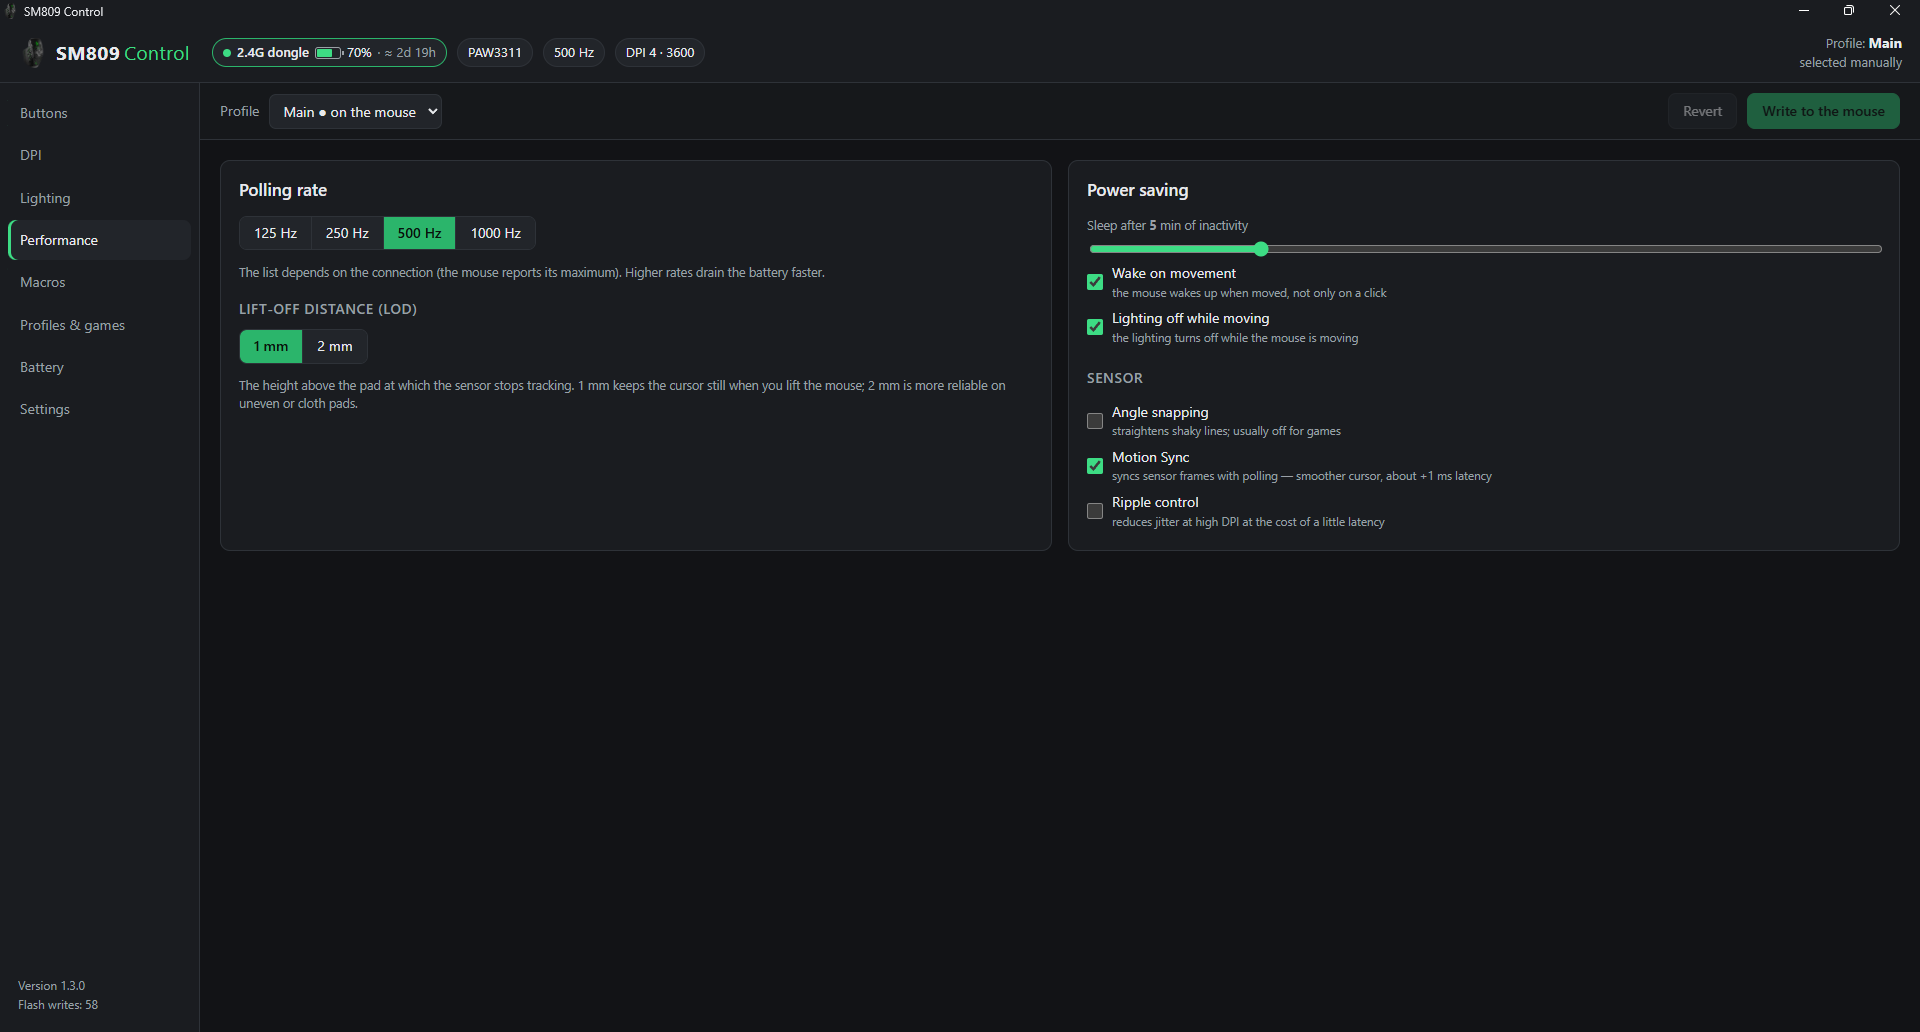
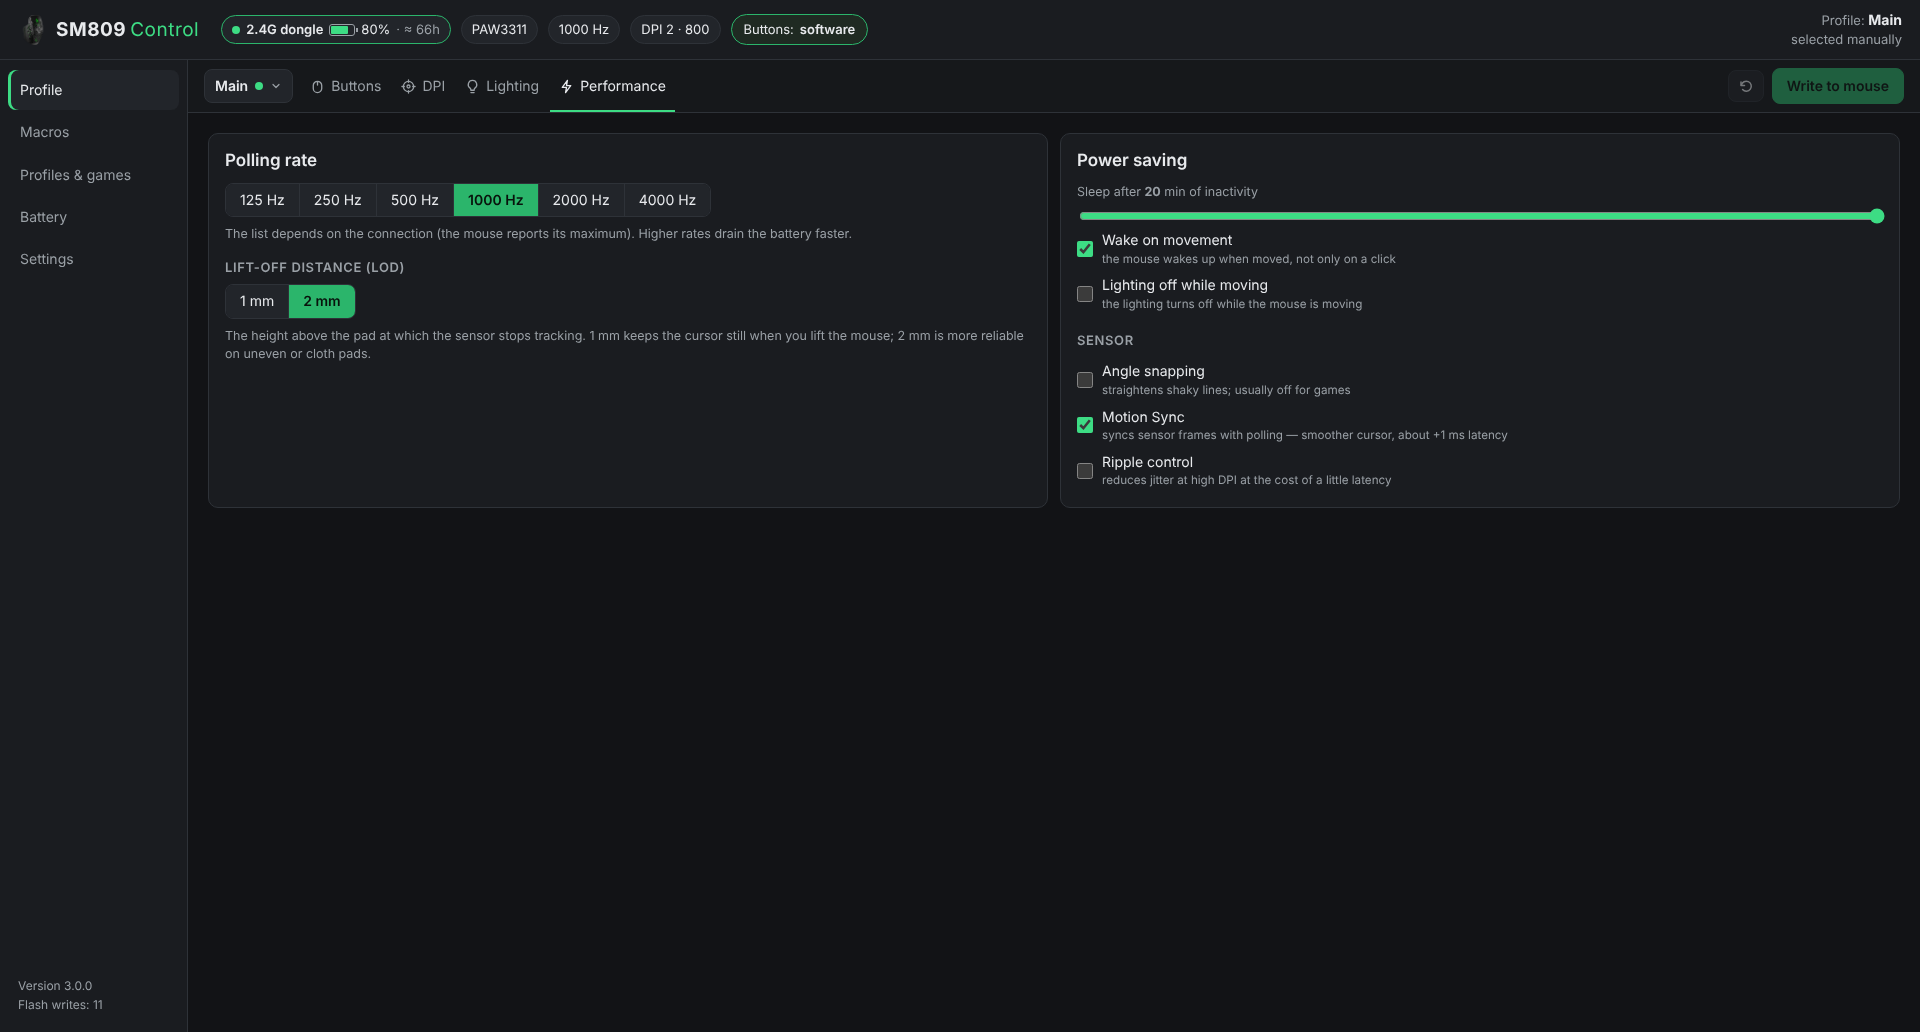
3.0.0: version, changelog, README, docs and screenshots
- appVersion and res/app.rc 3.0.0, .syso regenerated.
- CHANGELOG: the Unreleased section becomes 3.0.0 (includes the lighting
  zones of the 2.3.0 test release).
- README (en/ru): Profile page with section tabs, pinned buttons, key
  field with a list, All lighting switch, folders, "Switch the mouse
  settings when a game starts", battery forecast in hours of use, error
  log, minimum window width, data files, patcher in the release, project
  layout.
- docs: PROTOCOL debounce path and command 10; SOFT_BINDINGS pinned
  buttons.
- Screenshots retaken from the current UI (English, 1920x1032, sample
  data).

Claude-Session: https://claude.ai/code/session_01HRDTXRGjJ3ysq2oCecbFeX

diff --git a/main.go b/main.go
@@ -15,7 +15,7 @@ import (
 	"unsafe"
 )
 
-const appVersion = "2.3.0"
+const appVersion = "3.0.0"
 
 const projectURL = "https://github.com/maxim4ik163/SM809-Control"
 

diff --git a/CHANGELOG.md b/CHANGELOG.md
@@ -2,9 +2,11 @@
 
 Earlier versions: see [Releases](https://github.com/maxim4ik163/SM809-Control/releases).
 
-## Unreleased
+## 3.0.0 — 2026-11-14
 
 **English**
+
+The first stable release since 2.2.0. It includes the lighting zones of the 2.3.0 test release (below) and a reworked window: one *Profile* item with section tabs, folders for profiles and game rules, pinned buttons, a battery forecast in hours of use and an always-on error log.
 
 - **Battery forecast counts only the time the mouse is connected.** It used calendar time, so nights and weekends with the PC off (the mouse sleeps and hardly drains) made the forecast jump several times up after every break. *Time left* is now hours of use, with calendar days at your usual routine next to it (average time connected per day over the last two weeks, after 3 days of history). *Drain* is shown in % per hour of use.
 - **Pinned buttons.** In the main profile any button (except the main left one) can be pinned: it then does the same in every profile. Other profiles keep their own value, which comes back when the pin is removed. A switch between profiles that differ only in pinned buttons does not rewrite the key layout.
@@ -20,6 +22,8 @@ Earlier versions: see [Releases](https://github.com/maxim4ik163/SM809-Control/re
 - **Error log `errors.log`**, written always, whatever the *Write a log* setting: errors of requests (what pops up at the bottom right), of writing the mouse, crashes with their place in the code and errors of the window. Messages only, never request data. *Settings → Application* shows the time of the last error and opens the log or its folder.
 
 **Русский**
+
+Первый стабильный выпуск после 2.2.0. В него вошли зоны подсветки из тестового выпуска 2.3.0 (ниже) и переработанное окно: один пункт «Профиль» с вкладками разделов, папки для профилей и правил игр, фиксация кнопок, прогноз заряда в часах работы и журнал ошибок, который пишется всегда.
 
 - **Прогноз заряда учитывает только время, пока мышь на связи.** Раньше считалось календарное время, и ночи и выходные с выключенным ПК (мышь спит и почти не тратит заряд) после каждого перерыва завышали прогноз в разы. *Хватит примерно на* теперь показывает часы работы, а рядом — дни при вашем обычном режиме (среднее время на связи в сутки за последние две недели, после 3 дней истории). *Расход* — в % за час работы.
 - **Фиксация кнопок.** В основном профиле любую кнопку (кроме основной левой) можно зафиксировать: она будет делать одно и то же во всех профилях. Свои значения в других профилях сохраняются и возвращаются, если снять фиксацию. Если профили отличаются только зафиксированными кнопками, при переключении раскладка не перезаписывается.

diff --git a/docs/SOFT_BINDINGS.md b/docs/SOFT_BINDINGS.md
@@ -153,3 +153,7 @@ On every connection: real key presses (not injected), same scan codes (F13–F24
 ## 2.1.4: Bluetooth status through feature report 5
 
 Diagnostics on Bluetooth (2026-11-02): the BLE HID device has the same collections as the dongle (`col05` vendor page, in 32 = status; `col06` feature 136 = commands). Its status reader was open but the mouse pushed only one report 4 in minutes, and `HidD_GetInputReport` fails over Bluetooth — so the app never listed the mouse. The vendor tools poll **feature report 5** ("health"). 2.1.4 polls it on the command collection of the same device (paused while the engine writes) when the status collection is silent for 8 s; a reply is used only if it looks like the status layout (`plausibleStatus`: link 0/1, level ≤ 7, known polling code, battery ≤ 100, charge ≤ 2, known sensor). Input report 4 polling is given up after two failures in a row (it may block over BLE). Diagnostics show the raw bytes of the last report 4 and feature 5 to decode the layout if it differs.
+
+## 3.0.0: pinned buttons
+
+A button can be pinned in the main profile (`Profile.Pinned`, `Settings.DefaultProfile`). `Store.pinned(p)` returns the profile with the pinned buttons taken from the main one — both the hardware assignment and the software action — and every path that turns a profile into behaviour goes through it: the apply job, `Engine.diff` (pending changes) and the software-button press handler. The other profile keeps its own values; they come back when the pin is removed. Because the diff runs on the result, a switch between profiles that differ only in pinned buttons rewrites nothing. Saving the main profile while another one is on the mouse, or making another profile the main one, re-applies the key layout with `ApplyKeys` (diff-only). The main left button (12) cannot be pinned.

diff --git a/docs/PROTOCOL.md b/docs/PROTOCOL.md
@@ -76,7 +76,7 @@ The firmware's report-6 dispatcher (`switch` on the command byte, 0..17) has two
 | 9 | `config[0x78] = D[4]` — key debounce threshold in scan ticks (factory value 2) |
 | 10 | `config[0x7B] = D[4]` — stored and saved, never read by the stock firmware; used by the lighting-zones patch below |
 
-Command 9 is offered by SM809 Control as an experimental setting (Settings → Mouse); command 10 is not used.
+Command 9 is offered by SM809 Control as an experimental setting (Settings → Experimental options); command 10 is used by the lighting-zones patch.
 
 ## Reading the mouse memory (report 0xBF)
 
